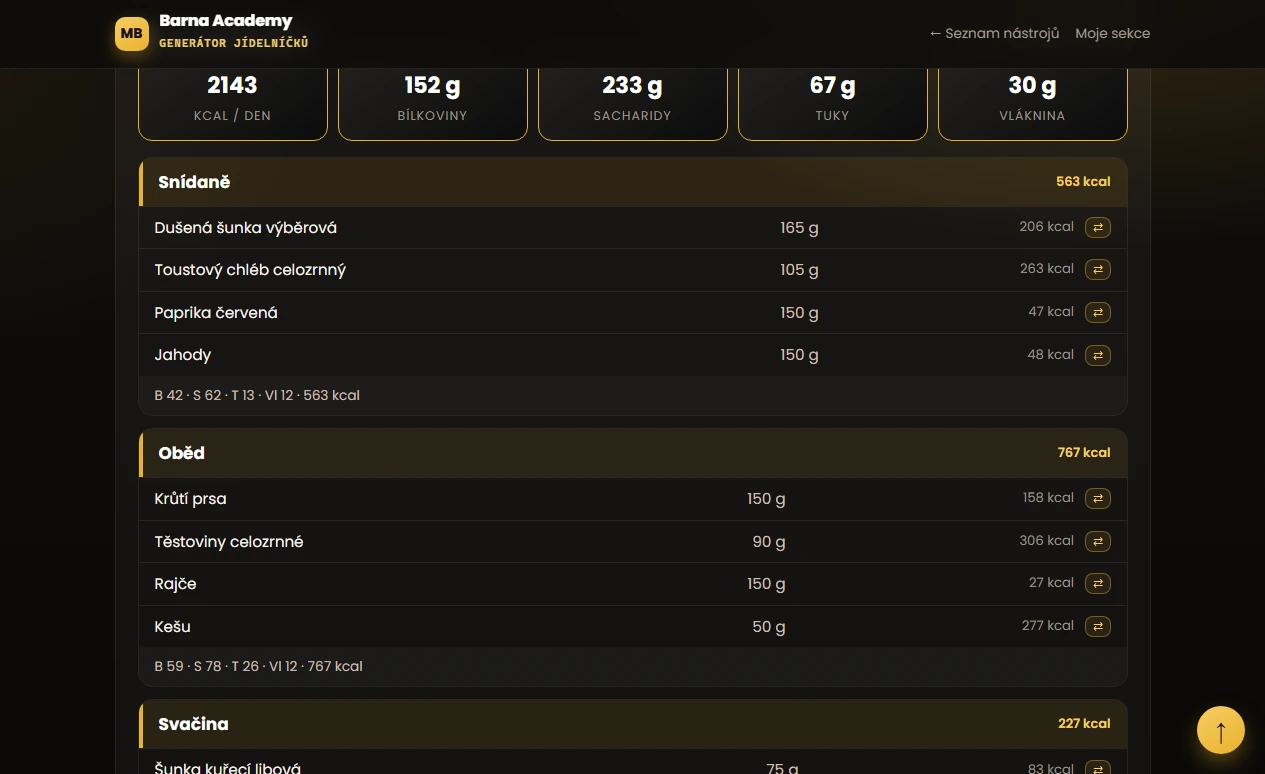
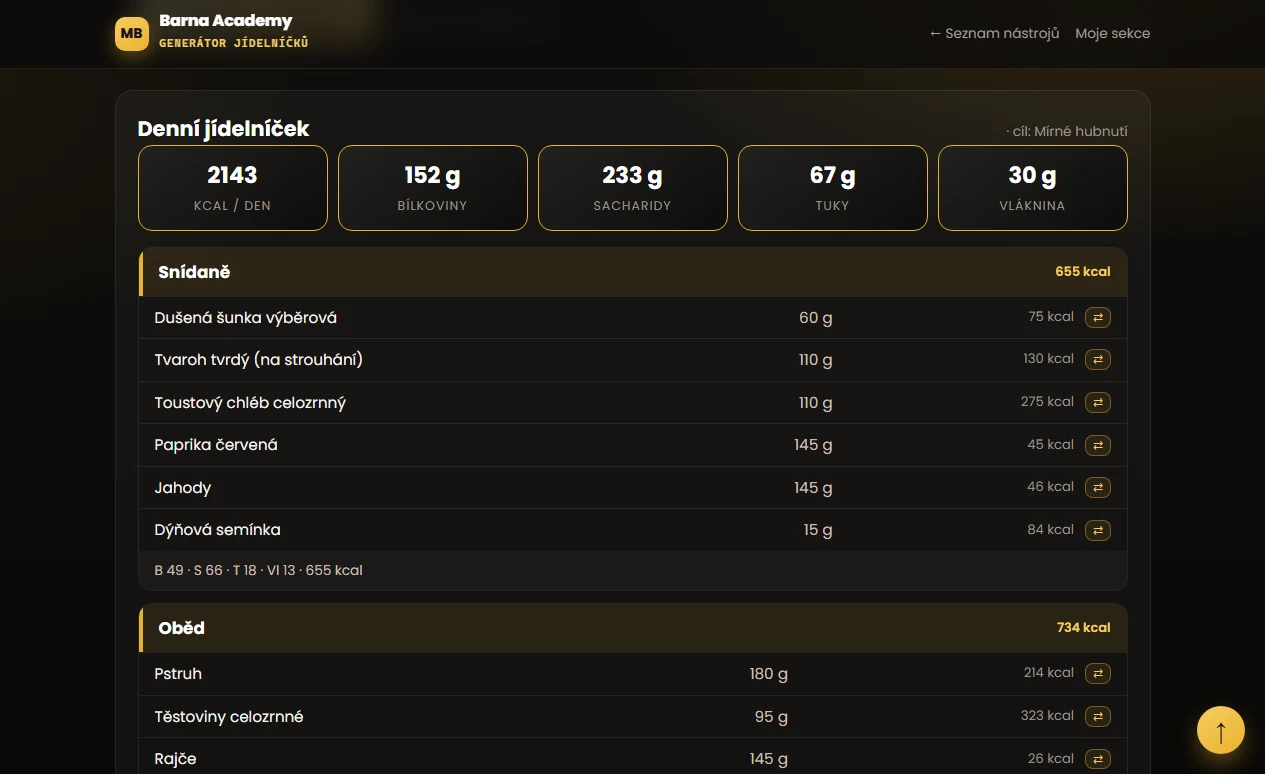
Nove ukazky jidelnicku po kolech 2, 3 a 4 (stare ukazovaly to, co jsme zakazali)
Publikovane ukazky vznikly 5. 8., tedy PRED dnesnimi opravami, a realne ukazovaly:
- mail i web TC: snidane = Sunka kurecí libova 195 g
- mail i web Academy: snidane = Dusena sunka vyberova 165 g, obed = krutí +
  testoviny + KESU 50 g (orechy ve slanem jidle)
Presne tyhle dve veci kola 3 a 4 opravila, takze klient videl na obrazku neco
jineho, nez mu appka dnes vygeneruje.
Nove snimky prosly PRISNEJSI kontrolou (skript 23-jidelnicky-v5): prilohy,
zadny prasek ani bilek, zadna exotika, uzenina max 80 g a nikdy jako zaklad
hlavniho jidla, svacina s bilkovinou, tuk sedici k charakteru jidla. Vsechny
tri snimky prosly napoprvé.
Mailove obrazky prepsany pod TYMZ jmenem (odeslane maily na ne odkazuji, mazat
se nesmi), web dostal generator-jidelnicku-4.png a ?v=g2 u Academy.

diff --git a/akademie/index.html b/akademie/index.html
@@ -387,8 +387,8 @@
 
                 <figure>
                     <picture>
-                        <source media="(max-width:820px)" srcset="/assets/screeny/academy/03-generator-cz-b-mobil.webp?v=g1" width="780" height="1260">
-                        <img src="/assets/screeny/academy/03-generator-cz-b.webp?v=g1" width="1265" height="774" loading="lazy" decoding="async"
+                        <source media="(max-width:820px)" srcset="/assets/screeny/academy/03-generator-cz-b-mobil.webp?v=g2" width="780" height="1260">
+                        <img src="/assets/screeny/academy/03-generator-cz-b.webp?v=g2" width="1265" height="774" loading="lazy" decoding="async"
                              alt="Výstup generátoru jídelníčků: snídaně, oběd a svačina s konkrétními potravinami, gramážemi, kaloriemi a makry na každé jídlo.">
                     </picture>
                     <figcaption><span class="n">03</span><span class="t">Jídelníček na míru za pár vteřin. Stejný výpočet, který v praxi používají trenéři.</span></figcaption>

diff --git a/tvuj-coach/index.html b/tvuj-coach/index.html
@@ -189,7 +189,7 @@
         </figure>
 
         <figure class="shot">
-            <img src="/assets/app/generator-jidelnicku-3.png?v=1" alt="Generátor jídelníčku v appce Tvůj Coach: celý den poskládaný z běžných potravin s gramážemi, kaloriemi a makry." width="390" height="844" loading="lazy" decoding="async">
+            <img src="/assets/app/generator-jidelnicku-4.png?v=1" alt="Generátor jídelníčku v appce Tvůj Coach: celý den poskládaný z běžných potravin s gramážemi, kaloriemi a makry." width="390" height="844" loading="lazy" decoding="async">
             <figcaption>Generátor ti poskládá celý den z běžných potravin, i s gramážemi.</figcaption>
         </figure>
 
